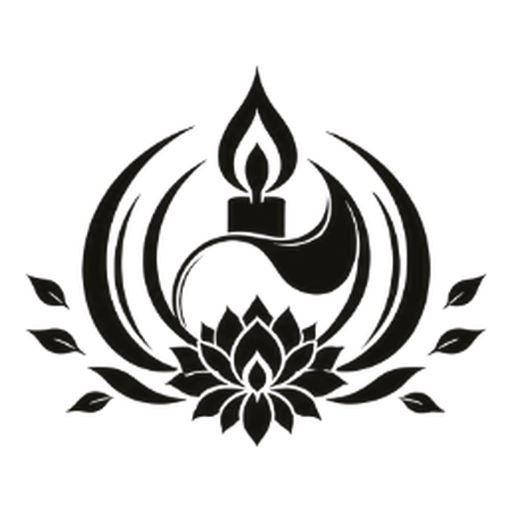
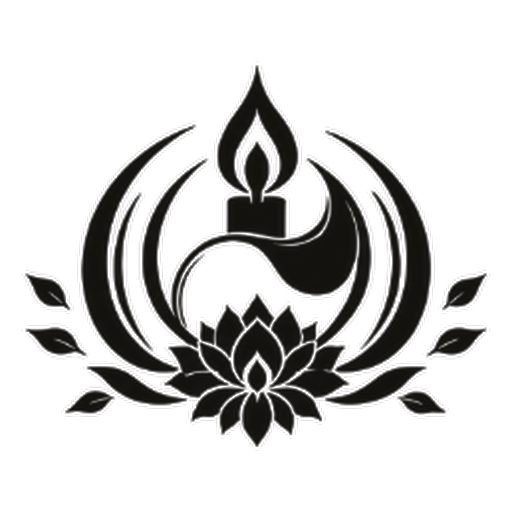
정부조직 제2편 카드화 · 파비콘 우선순위와 선 보정 (#63)
정부조직
- 제2편 대통령실의 표 14개를 제3편과 같은 펼침 카드로 바꿨다.
  실·수석 이름을 누르면 하부 조직이 열리고, 인사 기록이 있는
  비서실·국가안보실·홍보소통수석·민정수석·AI미래기획수석에는
  현직과 역대가 함께 붙는다. 기록이 없는 곳은 그렇게 표시한다.
- 제2편 카드 15개(인사 기록 1 + 실·수석 14), 제3편 29개.
  페이지에 남은 맨 표는 없다.

파비콘
- 흰 그림 버전을 기본으로 올리고, 먹색은 밝은 탭에서만 쓰도록
  media 조건을 light 로 바꿨다. media 를 무시하는 브라우저도
  이제 요청대로 흰 그림을 쓴다.
- 알파에 감마 보정을 넣어 얇은 선이 작은 크기에서 조금 더 살아나게 했다.
  다만 원본이 271×205 라 16~20px 에서는 여전히 흐리다.
  README 에 고해상도 원본을 올리면 다시 만들 수 있다고 적었다.

Claude-Session: https://claude.ai/code/session_01CmbfvczN9WCHdD2JYXdtni

diff --git a/government/index.html b/government/index.html
@@ -8,8 +8,8 @@
 <meta property="og:type" content="website">
 <meta property="og:title" content="정부조직 · 추모공화국">
 <meta property="og:description" content="추모공화국 정부조직. 추모국무회의 8인 체제와 대통령실, 행정각부 29개 기관의 소관과 하부 조직, 그리고 기록으로 확인되는 현직·역대 부처장을 수록한다.">
-<link rel="icon" type="image/png" href="../assets/brand/emblem-ink.png">
-<link rel="icon" type="image/png" href="../assets/brand/emblem.png" media="(prefers-color-scheme: dark)">
+<link rel="icon" type="image/png" href="../assets/brand/emblem.png">
+<link rel="icon" type="image/png" href="../assets/brand/emblem-ink.png" media="(prefers-color-scheme: light)">
 <link rel="stylesheet" href="../assets/common.css">
 </head>
 <body>
@@ -102,9 +102,22 @@
 </div>
 </details>
 
+<div class="gvs">
+<details class="gv">
+<summary class="gv-head"><span class="gv-name">대통령 비서실</span><span class="gv-sub">대통령의 일정·지시·결재를 최측근에서 보좌한다</span><span class="gv-caret" aria-hidden="true">▾</span></summary>
+<div class="gv-body">
+<p class="gv-now"><span class="gv-tag">현직</span>추모비서실장 <b>공석</b> — 직전 실장이 국무총리로 승진하며 비었다</p><div class="gv-hist"><span class="gv-tag gv-tag--past">역대</span>
+<table class="orgtable gv-table">
+<thead><tr><th>기간</th><th>직위</th><th>이름</th><th>비고</th></tr></thead>
+<tbody>
+<tr><td class="gv-when">2025. 6. 8</td><td class="gv-role">추모주무관</td><td class="gv-who">햄지🐹</td><td class="gv-note">현 국무총리의 첫 보직</td></tr>
+<tr><td class="gv-when">2025. 6. 10 ~ 2025. 10. 12</td><td class="gv-role">추모비서실장</td><td class="gv-who">햄지🐹</td><td class="gv-note">“초고속 승진”으로 기록되었다. 재임 중 자숙 기간이 있었다</td></tr>
+<tr><td class="gv-when">2026. 8. 24</td><td class="gv-role">실장 인선 논의</td><td class="gv-who">—</td><td class="gv-note">대통령이 “그록을 비서실장에 임명시켜야겠다”고 언급한 기록이 있다</td></tr>
+</tbody>
+</table></div>
+<h4 class="gv-h">하부 조직</h4>
 <table class="orgtable">
 <colgroup><col style="width:30%"><col></colgroup>
-<tr><th colspan="2" style="text-align:left;letter-spacing:1px;font-size:15px;">대통령 비서실 — 대통령의 일정·지시·결재를 최측근에서 보좌한다</th></tr>
 <tr><td>비서실장실</td><td>대통령 보좌 총괄, 각 수석실 업무 조율</td></tr>
 <tr><td>총무비서관실</td><td>공문 접수, 결재 대기함 관리, 내부 연락</td></tr>
 <tr><td>의전비서관실</td><td>임명식, 선서식, 국무회의 좌석과 순서 관리</td></tr>
@@ -112,9 +125,21 @@
 <tr><td>부속실</td><td>대통령 개인 일정과 대기실 운영</td></tr>
 <tr><td>특보비서관실</td><td>대통령이 따로 붙인 특별보좌 업무</td></tr>
 </table>
+</div>
+</details>
+<details class="gv">
+<summary class="gv-head"><span class="gv-name">추모국가안보실</span><span class="gv-sub">국가 기강·보안·대형 추모건 비상 대응을 총괄한다</span><span class="gv-caret" aria-hidden="true">▾</span></summary>
+<div class="gv-body">
+<p class="gv-now"><span class="gv-tag">현직</span>실장 <b>공석</b> — 권한대행 기록만 남아 있다</p><div class="gv-hist"><span class="gv-tag gv-tag--past">역대</span>
+<table class="orgtable gv-table">
+<thead><tr><th>기간</th><th>직위</th><th>이름</th><th>비고</th></tr></thead>
+<tbody>
+<tr><td class="gv-when">2025. 3. 28</td><td class="gv-role">추모국가안보실장 권한대행</td><td class="gv-who">제이지</td><td class="gv-note">권한대행으로 기록된 유일한 사례</td></tr>
+</tbody>
+</table></div>
+<h4 class="gv-h">하부 조직</h4>
 <table class="orgtable">
 <colgroup><col style="width:30%"><col></colgroup>
-<tr><th colspan="2" style="text-align:left;letter-spacing:1px;font-size:15px;">추모국가안보실 — 국가 기강·보안·대형 추모건 비상 대응을 총괄한다</th></tr>
 <tr><td>안보전략비서관실</td><td>공백기·성수기 안보 기조를 짠다</td></tr>
 <tr><td>위기관리센터</td><td>대형 추모건 발생 즉시 상황실을 연다</td></tr>
 <tr><td>내부안정과</td><td>내부 동요, 이탈, 파벌을 본다</td></tr>
@@ -122,105 +147,198 @@
 <tr><td>비상소집과</td><td>국무위원과 주요 공직자를 즉시 호출한다</td></tr>
 <tr><td>기밀문서과</td><td>안보 문서를 따로 보관한다</td></tr>
 </table>
+</div>
+</details>
+<details class="gv">
+<summary class="gv-head"><span class="gv-name">추모정책실</span><span class="gv-sub">국정 과제의 방향과 우선순위를 정한다</span><span class="gv-caret" aria-hidden="true">▾</span></summary>
+<div class="gv-body">
+<p class="gv-none">이 실·수석의 인사 기록은 아직 없다. 소관 업무는 대통령실이 분담한다.</p>
+<h4 class="gv-h">하부 조직</h4>
 <table class="orgtable">
 <colgroup><col style="width:30%"><col></colgroup>
-<tr><th colspan="2" style="text-align:left;letter-spacing:1px;font-size:15px;">추모정책실 — 국정 과제의 방향과 우선순위를 정한다</th></tr>
 <tr><td>정책기획비서관실</td><td>올해 국정 과제를 선정한다</td></tr>
 <tr><td>과제관리과</td><td>각 부처가 과제를 이행하는지 점검한다</td></tr>
 <tr><td>공백기대책과</td><td>추모건이 없을 때 국가가 뭘 할지 정한다</td></tr>
 <tr><td>대형건대응정책과</td><td>큰 건이 터졌을 때의 대응 원칙을 만든다</td></tr>
 <tr><td>정책조정과</td><td>부처 간 겹치는 일을 조정한다</td></tr>
 </table>
+</div>
+</details>
+<details class="gv">
+<summary class="gv-head"><span class="gv-name">추모정무수석</span><span class="gv-sub">정치·국회·정당·국무회의 정무를 담당한다</span><span class="gv-caret" aria-hidden="true">▾</span></summary>
+<div class="gv-body">
+<p class="gv-none">이 실·수석의 인사 기록은 아직 없다. 소관 업무는 대통령실이 분담한다.</p>
+<h4 class="gv-h">하부 조직</h4>
 <table class="orgtable">
 <colgroup><col style="width:30%"><col></colgroup>
-<tr><th colspan="2" style="text-align:left;letter-spacing:1px;font-size:15px;">추모정무수석 — 정치·국회·정당·국무회의 정무를 담당한다</th></tr>
 <tr><td>정무기획비서관실</td><td>정무 일정과 조율안을 만든다</td></tr>
 <tr><td>국무회의비서관실</td><td>국무회의 안건과 발언 순서를 정리한다</td></tr>
 <tr><td>정당협력과</td><td>대한추모당, 자유추모연대 등 정당 창구</td></tr>
 <tr><td>국회연락과</td><td>국회 의석과 법안 협의를 맡는다</td></tr>
 <tr><td>여야조율과</td><td>여당과 야당 사이 충돌을 줄인다</td></tr>
 </table>
+</div>
+</details>
+<details class="gv">
+<summary class="gv-head"><span class="gv-name">추모홍보소통수석</span><span class="gv-sub">대내외 메시지와 여론을 담당한다</span><span class="gv-caret" aria-hidden="true">▾</span></summary>
+<div class="gv-body">
+<p class="gv-now"><span class="gv-tag">현직</span>수석 <b>공석</b> — 추모홍보실이 정리된 뒤 계통만 남았다</p><div class="gv-hist"><span class="gv-tag gv-tag--past">역대</span>
+<table class="orgtable gv-table">
+<thead><tr><th>기간</th><th>직위</th><th>이름</th><th>비고</th></tr></thead>
+<tbody>
+<tr><td class="gv-when">2025. 3. 27 ~ 2025. 9. 6</td><td class="gv-role">추모홍보실장</td><td class="gv-who">최무현</td><td class="gv-note">추모감사원장으로 이임. 2025년 10월 기록에 “전 추모홍보실장”으로 표기된다</td></tr>
+</tbody>
+</table></div>
+<h4 class="gv-h">하부 조직</h4>
 <table class="orgtable">
 <colgroup><col style="width:30%"><col></colgroup>
-<tr><th colspan="2" style="text-align:left;letter-spacing:1px;font-size:15px;">추모홍보소통수석 — 대내외 메시지와 여론을 담당한다</th></tr>
 <tr><td>홍보기획비서관실</td><td>국가 메시지의 톤을 정한다</td></tr>
 <tr><td>담화문비서관실</td><td>대통령 담화 초안을 쓴다</td></tr>
 <tr><td>공지소통과</td><td>공식 안내와 반복 공지를 관리한다</td></tr>
 <tr><td>여론분석과</td><td>반응, 불만, 유행어를 분석한다</td></tr>
 <tr><td>이미지관리과</td><td>대통령과 정부 인상을 관리한다</td></tr>
 </table>
+</div>
+</details>
+<details class="gv">
+<summary class="gv-head"><span class="gv-name">추모민정수석</span><span class="gv-sub">공직기강·사정·민원을 담당한다</span><span class="gv-caret" aria-hidden="true">▾</span></summary>
+<div class="gv-body">
+<p class="gv-now"><span class="gv-tag">현직</span>수석 <b>공석</b> — 추모법무실 계통의 후신이다</p><div class="gv-hist"><span class="gv-tag gv-tag--past">역대</span>
+<table class="orgtable gv-table">
+<thead><tr><th>기간</th><th>직위</th><th>이름</th><th>비고</th></tr></thead>
+<tbody>
+<tr><td class="gv-when">2025. 3. 30 ~ 2025. 4. 20</td><td class="gv-role">추모법무실장</td><td class="gv-who">카페모카</td><td class="gv-note">재임 중 직무정지가 두 차례 있었다</td></tr>
+<tr><td class="gv-when">2025. 5. 1 ~</td><td class="gv-role">추모법무실장</td><td class="gv-who">간절한 앙몬드</td><td class="gv-note">취임 인사에 “전임 추모법무실장님을 이어받아”라고 적었다</td></tr>
+<tr><td class="gv-when">2025. 9. 6</td><td class="gv-role">추모법무실장</td><td class="gv-who">27사 이기자</td><td class="gv-note">2025년 10월 11일 보직 해임 및 직무 재편 공고로 실이 정리되었다</td></tr>
+</tbody>
+</table></div>
+<h4 class="gv-h">하부 조직</h4>
 <table class="orgtable">
 <colgroup><col style="width:30%"><col></colgroup>
-<tr><th colspan="2" style="text-align:left;letter-spacing:1px;font-size:15px;">추모민정수석 — 공직기강·사정·민원을 담당한다</th></tr>
 <tr><td>민정비서관실</td><td>사정 방향을 정한다</td></tr>
 <tr><td>공직기강과</td><td>공직자 비위와 해이를 본다</td></tr>
 <tr><td>민원조사과</td><td>반복 민원과 부당 요구를 가린다</td></tr>
 <tr><td>사정협력과</td><td>감사원, 검찰, 경찰과 연계한다</td></tr>
 <tr><td>청문·검증과</td><td>임명 대상의 과거 발언과 이력을 검증한다</td></tr>
 </table>
+</div>
+</details>
+<details class="gv">
+<summary class="gv-head"><span class="gv-name">추모인사수석</span><span class="gv-sub">고위 공직 인사와 보직을 담당한다</span><span class="gv-caret" aria-hidden="true">▾</span></summary>
+<div class="gv-body">
+<p class="gv-none">이 실·수석의 인사 기록은 아직 없다. 소관 업무는 대통령실이 분담한다.</p>
+<h4 class="gv-h">하부 조직</h4>
 <table class="orgtable">
 <colgroup><col style="width:30%"><col></colgroup>
-<tr><th colspan="2" style="text-align:left;letter-spacing:1px;font-size:15px;">추모인사수석 — 고위 공직 인사와 보직을 담당한다</th></tr>
 <tr><td>인사비서관실</td><td>장관급 인선 윤곽을 짠다</td></tr>
 <tr><td>보직관리과</td><td>누가 어디에 앉을지 관리한다</td></tr>
 <tr><td>검증과</td><td>임명 전 적합성을 본다</td></tr>
 <tr><td>공직평가과</td><td>임명 후 실적을 평가한다</td></tr>
 <tr><td>예비인력과</td><td>다음 보직 후보를 따로 관리한다</td></tr>
 </table>
+</div>
+</details>
+<details class="gv">
+<summary class="gv-head"><span class="gv-name">추모경제수석</span><span class="gv-sub">추모연금·예산·보상 체계를 담당한다</span><span class="gv-caret" aria-hidden="true">▾</span></summary>
+<div class="gv-body">
+<p class="gv-none">이 실·수석의 인사 기록은 아직 없다. 소관 업무는 대통령실이 분담한다.</p>
+<h4 class="gv-h">하부 조직</h4>
 <table class="orgtable">
 <colgroup><col style="width:30%"><col></colgroup>
-<tr><th colspan="2" style="text-align:left;letter-spacing:1px;font-size:15px;">추모경제수석 — 추모연금·예산·보상 체계를 담당한다</th></tr>
 <tr><td>경제비서관실</td><td>연금·보상 기조를 정한다</td></tr>
 <tr><td>연금정책과</td><td>등급별 연금액과 가산 규칙을 관리한다</td></tr>
 <tr><td>예산조정과</td><td>부처 예산 요구를 줄이거나 늘린다</td></tr>
 <tr><td>기프트콘정책과</td><td>현물 보상 규모를 정한다</td></tr>
 <tr><td>재원점검과</td><td>줄 돈과 받을 실적이 맞는지 본다</td></tr>
 </table>
+</div>
+</details>
+<details class="gv">
+<summary class="gv-head"><span class="gv-name">추모사회수석</span><span class="gv-sub">교육·복지·분위기·추모꾼 생활을 담당한다</span><span class="gv-caret" aria-hidden="true">▾</span></summary>
+<div class="gv-body">
+<p class="gv-none">이 실·수석의 인사 기록은 아직 없다. 소관 업무는 대통령실이 분담한다.</p>
+<h4 class="gv-h">하부 조직</h4>
 <table class="orgtable">
 <colgroup><col style="width:30%"><col></colgroup>
-<tr><th colspan="2" style="text-align:left;letter-spacing:1px;font-size:15px;">추모사회수석 — 교육·복지·분위기·추모꾼 생활을 담당한다</th></tr>
 <tr><td>사회비서관실</td><td>사회 분야 국정 방향을 정한다</td></tr>
 <tr><td>교육복지과</td><td>신입 교육과 정착을 본다</td></tr>
 <tr><td>분위기정책과</td><td>과열과 침묵을 조절한다</td></tr>
 <tr><td>원로정책과</td><td>원로·은퇴자 예우 방향을 정한다</td></tr>
 <tr><td>갈등조정과</td><td>내부 다툼과 파벌을 줄인다</td></tr>
 </table>
+</div>
+</details>
+<details class="gv">
+<summary class="gv-head"><span class="gv-name">추모AI미래기획수석</span><span class="gv-sub">AI 활용과 미래 추모 체계를 담당한다</span><span class="gv-caret" aria-hidden="true">▾</span></summary>
+<div class="gv-body">
+<p class="gv-now"><span class="gv-tag">현직</span>추모AI미래기획 사령관 <b>전두환</b> — 2026년 4월 23일 이래 재임</p><div class="gv-hist"><span class="gv-tag gv-tag--past">역대</span>
+<table class="orgtable gv-table">
+<thead><tr><th>기간</th><th>직위</th><th>이름</th><th>비고</th></tr></thead>
+<tbody>
+<tr><td class="gv-when">2026. 4. 20 ~ 2026. 4. 21</td><td class="gv-role">추모계엄사령관</td><td class="gv-who">전두환</td><td class="gv-note">이틀간 기록된 임시 직책</td></tr>
+<tr><td class="gv-when">2026. 4. 23 ~ 현재</td><td class="gv-role">추모AI미래기획 사령관</td><td class="gv-who">전두환</td><td class="gv-note">계엄사령관에서 개편되었다</td></tr>
+</tbody>
+</table></div>
+<h4 class="gv-h">하부 조직</h4>
 <table class="orgtable">
 <colgroup><col style="width:30%"><col></colgroup>
-<tr><th colspan="2" style="text-align:left;letter-spacing:1px;font-size:15px;">추모AI미래기획수석 — AI 활용과 미래 추모 체계를 담당한다</th></tr>
 <tr><td>미래기획비서관실</td><td>AI 국정 과제를 기획한다</td></tr>
 <tr><td>AI문안과</td><td>공식 문안·선서·안내문 생성을 관리한다</td></tr>
 <tr><td>드립모델과</td><td>AI 드립의 톤과 금기를 관리한다</td></tr>
 <tr><td>시스템기획과</td><td>봇 명령·자동 공지·기록 체계를 기획한다</td></tr>
 <tr><td>미래과제과</td><td>다음에 도입할 제도와 기술을 구상한다</td></tr>
 </table>
+</div>
+</details>
+<details class="gv">
+<summary class="gv-head"><span class="gv-name">추모 제1차장</span><span class="gv-sub">대통령실 운영과 내부 기강을 총괄한다</span><span class="gv-caret" aria-hidden="true">▾</span></summary>
+<div class="gv-body">
+<p class="gv-none">이 실·수석의 인사 기록은 아직 없다. 소관 업무는 대통령실이 분담한다.</p>
+<h4 class="gv-h">하부 조직</h4>
 <table class="orgtable">
 <colgroup><col style="width:30%"><col></colgroup>
-<tr><th colspan="2" style="text-align:left;letter-spacing:1px;font-size:15px;">추모 제1차장 — 대통령실 운영과 내부 기강을 총괄한다</th></tr>
 <tr><td>운영총괄과</td><td>대통령실 전체 업무 흐름을 관리한다</td></tr>
 <tr><td>기강관리과</td><td>대통령실 내부 해이를 단속한다</td></tr>
 <tr><td>회의운영과</td><td>수석회의, 비공개 회의를 운영한다</td></tr>
 <tr><td>지시점검과</td><td>대통령 지시가 실제로 이행됐는지 확인한다</td></tr>
 </table>
+</div>
+</details>
+<details class="gv">
+<summary class="gv-head"><span class="gv-name">추모 제2차장</span><span class="gv-sub">정책 조율과 부처 간 충돌을 담당한다</span><span class="gv-caret" aria-hidden="true">▾</span></summary>
+<div class="gv-body">
+<p class="gv-none">이 실·수석의 인사 기록은 아직 없다. 소관 업무는 대통령실이 분담한다.</p>
+<h4 class="gv-h">하부 조직</h4>
 <table class="orgtable">
 <colgroup><col style="width:30%"><col></colgroup>
-<tr><th colspan="2" style="text-align:left;letter-spacing:1px;font-size:15px;">추모 제2차장 — 정책 조율과 부처 간 충돌을 담당한다</th></tr>
 <tr><td>정책통할과</td><td>각 수석실 정책을 한쪽으로 모은다</td></tr>
 <tr><td>부처조정과</td><td>부처끼리 일이 겹치면 가른다</td></tr>
 <tr><td>현안대응과</td><td>그날그날 현안을 먼저 받아 분류한다</td></tr>
 <tr><td>보고서심의과</td><td>대통령에게 올라가는 보고서를 거른다</td></tr>
 </table>
+</div>
+</details>
+<details class="gv">
+<summary class="gv-head"><span class="gv-name">추모 제3차장</span><span class="gv-sub">일정·의전·민심·현장 실무를 담당한다</span><span class="gv-caret" aria-hidden="true">▾</span></summary>
+<div class="gv-body">
+<p class="gv-none">이 실·수석의 인사 기록은 아직 없다. 소관 업무는 대통령실이 분담한다.</p>
+<h4 class="gv-h">하부 조직</h4>
 <table class="orgtable">
 <colgroup><col style="width:30%"><col></colgroup>
-<tr><th colspan="2" style="text-align:left;letter-spacing:1px;font-size:15px;">추모 제3차장 — 일정·의전·민심·현장 실무를 담당한다</th></tr>
 <tr><td>일정관리과</td><td>대통령과 수석 일정을 짠다</td></tr>
 <tr><td>현장실무과</td><td>임명식, 선서, 현장 행사를 실무적으로 돌린다</td></tr>
 <tr><td>민심동향과</td><td>아래 여론과 신입 반응을 모은다</td></tr>
 <tr><td>특수업무과</td><td>어디에도 안 들어가는 잡무를 맡는다</td></tr>
 </table>
+</div>
+</details>
+<details class="gv">
+<summary class="gv-head"><span class="gv-name">추모경호실 (대통령실 산하)</span><span class="gv-sub">대통령과 국무위원 신변을 보호한다</span><span class="gv-caret" aria-hidden="true">▾</span></summary>
+<div class="gv-body">
+<p class="gv-none">이 실·수석의 인사 기록은 아직 없다. 소관 업무는 대통령실이 분담한다.</p>
+<h4 class="gv-h">하부 조직</h4>
 <table class="orgtable">
 <colgroup><col style="width:30%"><col></colgroup>
-<tr><th colspan="2" style="text-align:left;letter-spacing:1px;font-size:15px;">추모경호실 (대통령실 산하) — 대통령과 국무위원 신변을 보호한다</th></tr>
 <tr><td>경호실장실</td><td>경호 총괄</td></tr>
 <tr><td>근접경호과</td><td>바로 옆을 지킨다</td></tr>
 <tr><td>행사경호과</td><td>공식 행사장을 지킨다</td></tr>
@@ -229,6 +347,9 @@
 <tr><td>경호교육과</td><td>경호 수칙을 가르친다</td></tr>
 <tr><td>경호지원과</td><td>대기 인력과 물자를 관리한다</td></tr>
 </table>
+</div>
+</details>
+</div>
 </section>
 
 <section aria-labelledby="h-depts">

diff --git a/cases/index.html b/cases/index.html
@@ -8,8 +8,8 @@
 <meta property="og:type" content="website">
 <meta property="og:title" content="판례집 · 추모공화국">
 <meta property="og:description" content="추모공화국 판례집. 닭모이형 4건을 포함한 주요 사건 11건의 사건번호·적용 법조·주문·이유를 판례 서식으로 수록한다. 헌법·형법·교정법 조문의 입법 배경을 사건으로 확인할 수 있다.">
-<link rel="icon" type="image/png" href="../assets/brand/emblem-ink.png">
-<link rel="icon" type="image/png" href="../assets/brand/emblem.png" media="(prefers-color-scheme: dark)">
+<link rel="icon" type="image/png" href="../assets/brand/emblem.png">
+<link rel="icon" type="image/png" href="../assets/brand/emblem-ink.png" media="(prefers-color-scheme: light)">
 <link rel="stylesheet" href="../assets/common.css">
 </head>
 <body>

diff --git a/chumo-correction-act/index.html b/chumo-correction-act/index.html
@@ -8,8 +8,8 @@
 <meta property="og:type" content="website">
 <meta property="og:title" content="교정법 · 추모공화국">
 <meta property="og:description" content="추모교정법 전문. 교정 절차의 개시·진행·종결과 재심의, 교정관의 의무와 특별추모교정실 운영에 관한 규정.">
-<link rel="icon" type="image/png" href="../assets/brand/emblem-ink.png">
-<link rel="icon" type="image/png" href="../assets/brand/emblem.png" media="(prefers-color-scheme: dark)">
+<link rel="icon" type="image/png" href="../assets/brand/emblem.png">
+<link rel="icon" type="image/png" href="../assets/brand/emblem-ink.png" media="(prefers-color-scheme: light)">
 <link rel="stylesheet" href="../assets/common.css">
 <style>
 /* 교정법 페이지 고유 — 표제 자수가 많아 자간·크기 축소, 표 상단 정렬 */

diff --git a/chumo-constitution/index.html b/chumo-constitution/index.html
@@ -8,8 +8,8 @@
 <meta property="og:type" content="website">
 <meta property="og:title" content="헌법 · 추모공화국">
 <meta property="og:description" content="추모공화국 헌법 전문. 전문과 10장 37조 및 부칙, 집단지도체제와 추모국무회의, 정부조직과 교정·형벌에 관한 규정.">
-<link rel="icon" type="image/png" href="../assets/brand/emblem-ink.png">
-<link rel="icon" type="image/png" href="../assets/brand/emblem.png" media="(prefers-color-scheme: dark)">
+<link rel="icon" type="image/png" href="../assets/brand/emblem.png">
+<link rel="icon" type="image/png" href="../assets/brand/emblem-ink.png" media="(prefers-color-scheme: light)">
 <link rel="stylesheet" href="../assets/common.css">
 <style>
 /* 헌법 페이지 고유 — 본명조 우선 적용, 표지 엠블럼 확대 */

diff --git a/memorials/index.html b/memorials/index.html
@@ -8,8 +8,8 @@
 <meta property="og:type" content="website">
 <meta property="og:title" content="추모건 계보 · 추모공화국">
 <meta property="og:description" content="추모공화국 추모건 계보. 2024년 1월 건국 이래 방이 이름을 바꾸어 기억해온 16건의 추모 대상을 추모 기간·메시지 수·하루 평균과 함께 시기순으로 수록한다.">
-<link rel="icon" type="image/png" href="../assets/brand/emblem-ink.png">
-<link rel="icon" type="image/png" href="../assets/brand/emblem.png" media="(prefers-color-scheme: dark)">
+<link rel="icon" type="image/png" href="../assets/brand/emblem.png">
+<link rel="icon" type="image/png" href="../assets/brand/emblem-ink.png" media="(prefers-color-scheme: light)">
 <link rel="stylesheet" href="../assets/common.css">
 </head>
 <body>

diff --git a/hall/index.html b/hall/index.html
@@ -8,8 +8,8 @@
 <meta property="og:type" content="website">
 <meta property="og:title" content="추모명예의전당 · 추모공화국">
 <meta property="og:description" content="추모공화국 추모명예의전당. 연말 추모시상 12개 부문의 선정 기준과, 제도가 생기기 전 이 방을 지킨 초기 추모꾼 명부를 수록한다.">
-<link rel="icon" type="image/png" href="../assets/brand/emblem-ink.png">
-<link rel="icon" type="image/png" href="../assets/brand/emblem.png" media="(prefers-color-scheme: dark)">
+<link rel="icon" type="image/png" href="../assets/brand/emblem.png">
+<link rel="icon" type="image/png" href="../assets/brand/emblem-ink.png" media="(prefers-color-scheme: light)">
 <link rel="stylesheet" href="../assets/common.css">
 </head>
 <body>

diff --git a/chumo-criminal-act/index.html b/chumo-criminal-act/index.html
@@ -8,8 +8,8 @@
 <meta property="og:type" content="website">
 <meta property="og:title" content="형법 · 추모공화국">
 <meta property="og:description" content="추모공화국 형법 전문. 총칙과 각칙 제1조부터 제133조까지, 추모 의무·추모방 질서·공권력·고인 및 유가족에 관한 죄와 최고형 규정.">
-<link rel="icon" type="image/png" href="../assets/brand/emblem-ink.png">
-<link rel="icon" type="image/png" href="../assets/brand/emblem.png" media="(prefers-color-scheme: dark)">
+<link rel="icon" type="image/png" href="../assets/brand/emblem.png">
+<link rel="icon" type="image/png" href="../assets/brand/emblem-ink.png" media="(prefers-color-scheme: light)">
 <link rel="stylesheet" href="../assets/common.css">
 </head>
 <body>

diff --git a/about/index.html b/about/index.html
@@ -8,8 +8,8 @@
 <meta property="og:type" content="website">
 <meta property="og:title" content="소개 · 추모공화국">
 <meta property="og:description" content="추모공화국은 어떤 나라인가. 건국 이념과 국가 상징, 통치 구조, 추모꾼이 되는 길과 등급·추모연금 제도, 교정의 원칙을 안내한다.">
-<link rel="icon" type="image/png" href="../assets/brand/emblem-ink.png">
-<link rel="icon" type="image/png" href="../assets/brand/emblem.png" media="(prefers-color-scheme: dark)">
+<link rel="icon" type="image/png" href="../assets/brand/emblem.png">
+<link rel="icon" type="image/png" href="../assets/brand/emblem-ink.png" media="(prefers-color-scheme: light)">
 <link rel="stylesheet" href="../assets/common.css">
 </head>
 <body>

diff --git a/index.html b/index.html
@@ -8,8 +8,8 @@
 <meta property="og:type" content="website">
 <meta property="og:title" content="추모공화국 정부 공식 홈페이지">
 <meta property="og:description" content="추모공화국 정부 공식 홈페이지. 헌법·형법·교정법 전문, 추모국무회의 8인 국무위원, 국가 역사와 국가(國歌)를 제공한다.">
-<link rel="icon" type="image/png" href="assets/brand/emblem-ink.png">
-<link rel="icon" type="image/png" href="assets/brand/emblem.png" media="(prefers-color-scheme: dark)">
+<link rel="icon" type="image/png" href="assets/brand/emblem.png">
+<link rel="icon" type="image/png" href="assets/brand/emblem-ink.png" media="(prefers-color-scheme: light)">
 <link rel="stylesheet" href="assets/common.css">
 </head>
 <body>

diff --git a/president/schedule/index.html b/president/schedule/index.html
@@ -8,8 +8,8 @@
 <meta property="og:type" content="website">
 <meta property="og:title" content="대통령 공개일정 · 추모공화국">
 <meta property="og:description" content="추모공화국 대통령의 정례 일정과 최근 공개일정. 대통령실 부속실 작성, 의전비서관실 확정.">
-<link rel="icon" type="image/png" href="../../assets/brand/emblem-ink.png">
-<link rel="icon" type="image/png" href="../../assets/brand/emblem.png" media="(prefers-color-scheme: dark)">
+<link rel="icon" type="image/png" href="../../assets/brand/emblem.png">
+<link rel="icon" type="image/png" href="../../assets/brand/emblem-ink.png" media="(prefers-color-scheme: light)">
 <link rel="stylesheet" href="../../assets/common.css">
 </head>
 <body>

diff --git a/president/greeting/index.html b/president/greeting/index.html
@@ -8,8 +8,8 @@
 <meta property="og:type" content="website">
 <meta property="og:title" content="대통령 인사말 · 추모공화국">
 <meta property="og:description" content="추모공화국 초대 대통령 민주시민의 인사말. 국민 여러분께 드리는 약속과 국정 운영의 원칙.">
-<link rel="icon" type="image/png" href="../../assets/brand/emblem-ink.png">
-<link rel="icon" type="image/png" href="../../assets/brand/emblem.png" media="(prefers-color-scheme: dark)">
+<link rel="icon" type="image/png" href="../../assets/brand/emblem.png">
+<link rel="icon" type="image/png" href="../../assets/brand/emblem-ink.png" media="(prefers-color-scheme: light)">
 <link rel="stylesheet" href="../../assets/common.css">
 </head>
 <body>

diff --git a/laws/index.html b/laws/index.html
@@ -8,8 +8,8 @@
 <meta property="og:type" content="website">
 <meta property="og:title" content="법률 · 추모공화국">
 <meta property="og:description" content="추모공화국 법률. 헌법·형법·교정법 세 법전의 구성과 조문 수, 각 법전이 다루는 범위를 한자리에서 안내한다.">
-<link rel="icon" type="image/png" href="../assets/brand/emblem-ink.png">
-<link rel="icon" type="image/png" href="../assets/brand/emblem.png" media="(prefers-color-scheme: dark)">
+<link rel="icon" type="image/png" href="../assets/brand/emblem.png">
+<link rel="icon" type="image/png" href="../assets/brand/emblem-ink.png" media="(prefers-color-scheme: light)">
 <link rel="stylesheet" href="../assets/common.css">
 </head>
 <body>
